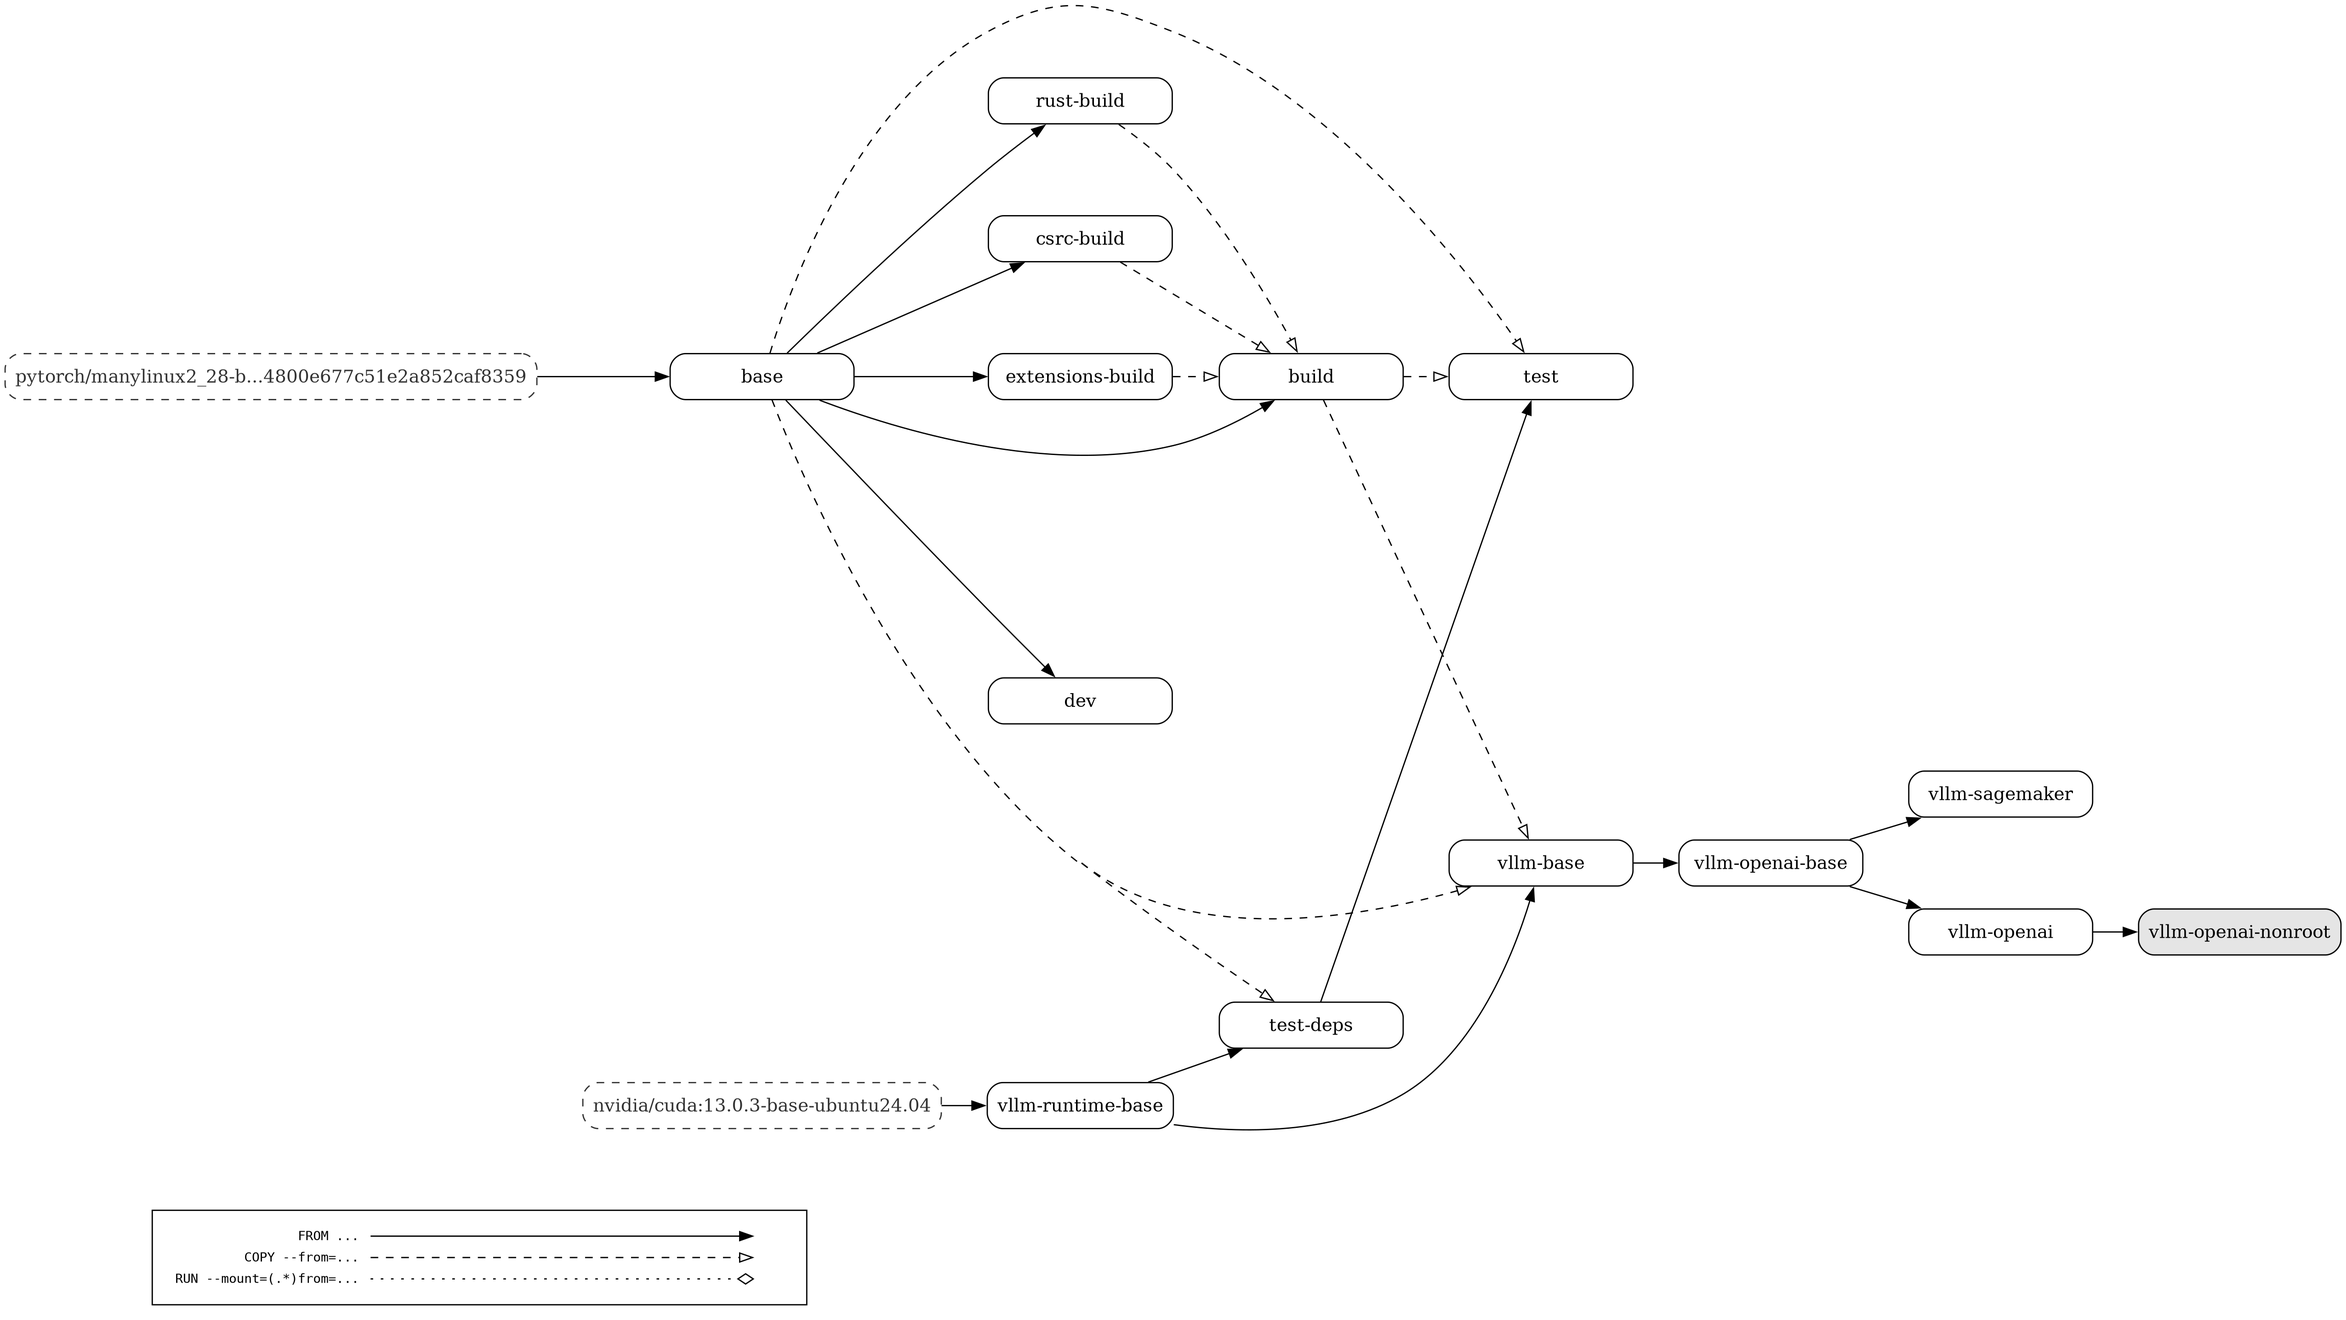
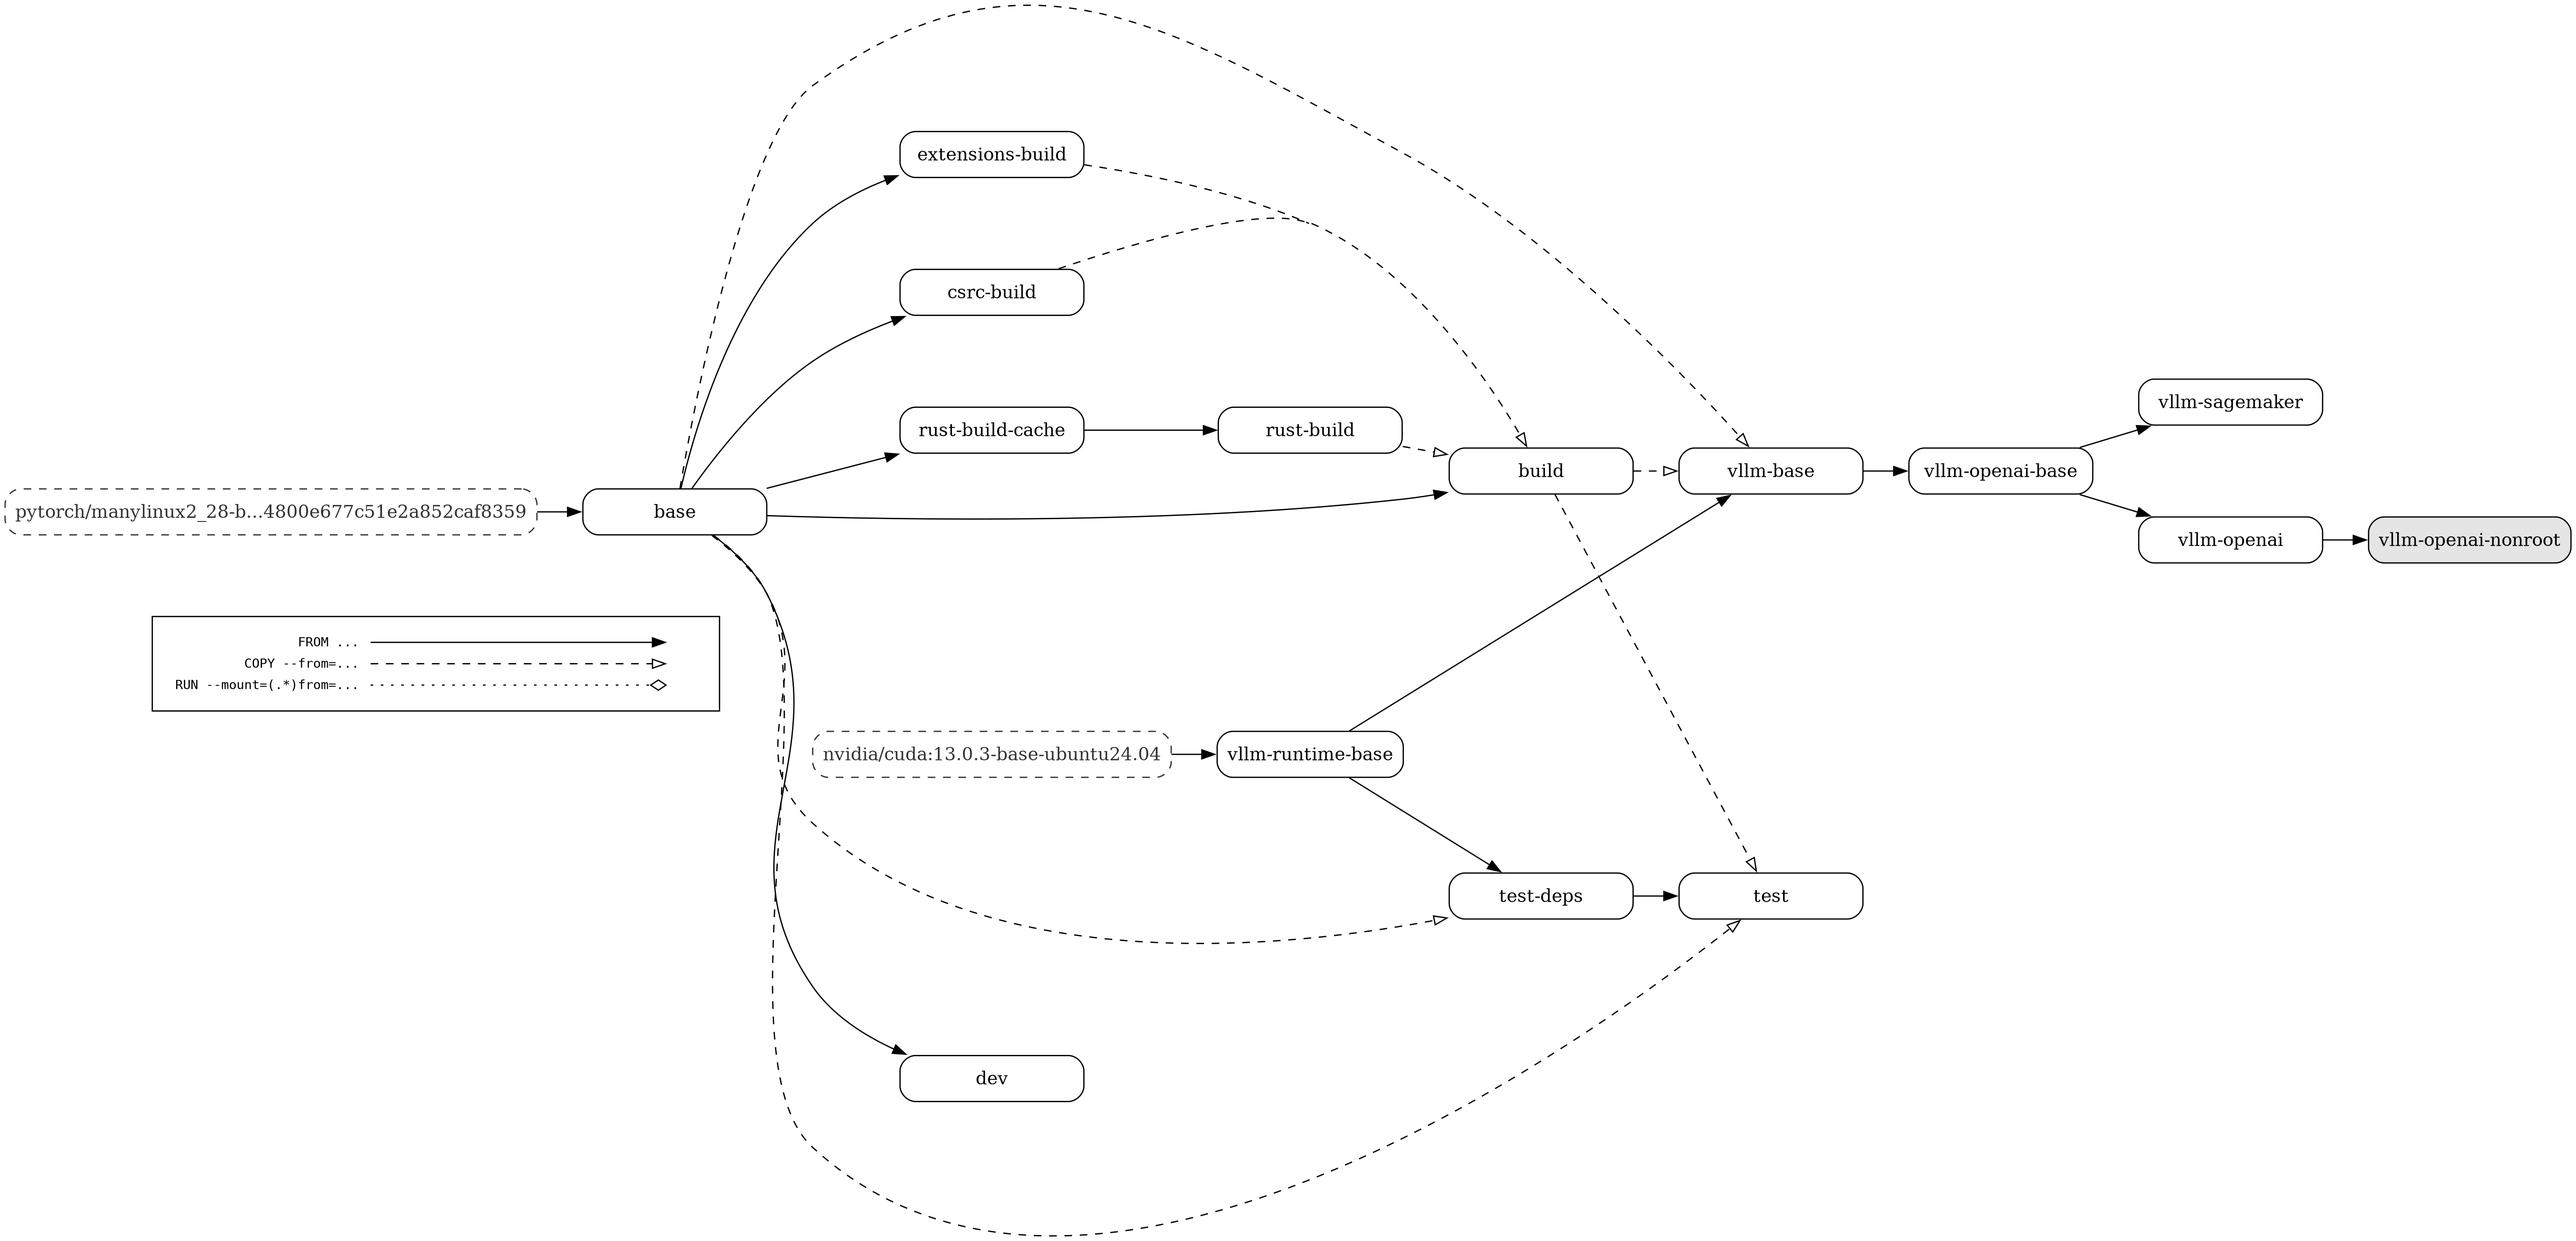
[CI] Preserve Rust Docker cache across commits (#53290)

diff --git a/tests/tools/test_docker_build_metadata_args.py b/tests/tools/test_docker_build_metadata_args.py
@@ -153,6 +153,22 @@ def test_vllm_openai_image_embeds_metadata_contract() -> None:
         assert expected in dockerfile
 
 
+def test_rust_build_cache_excludes_git_metadata() -> None:
+    for name in ("Dockerfile", "Dockerfile.cpu", "Dockerfile.xpu"):
+        dockerfile = (REPO_ROOT / "docker" / name).read_text()
+        cached_stage, exact_version_stage = dockerfile.split(
+            "FROM rust-build-cache AS rust-build", maxsplit=1
+        )
+        exact_version_stage = exact_version_stage.split("\nFROM ", maxsplit=1)[0]
+        cached_run = cached_stage.rsplit("RUN ", maxsplit=1)[1]
+
+        assert 'SETUPTOOLS_SCM_PRETEND_VERSION="0.0.0+docker.cache"' in cached_run
+        assert "source=.git,target=.git" not in cached_run
+        assert "source=.git,target=.git" in exact_version_stage
+        assert 'SETUPTOOLS_SCM_PRETEND_METADATA="{dirty=false}"' in exact_version_stage
+        assert "bash build_rust.sh" in exact_version_stage
+
+
 def test_rocm_ci_base_bake_embeds_content_hash_label() -> None:
     bake_file = (REPO_ROOT / "docker" / "docker-bake-rocm.hcl").read_text()
 
